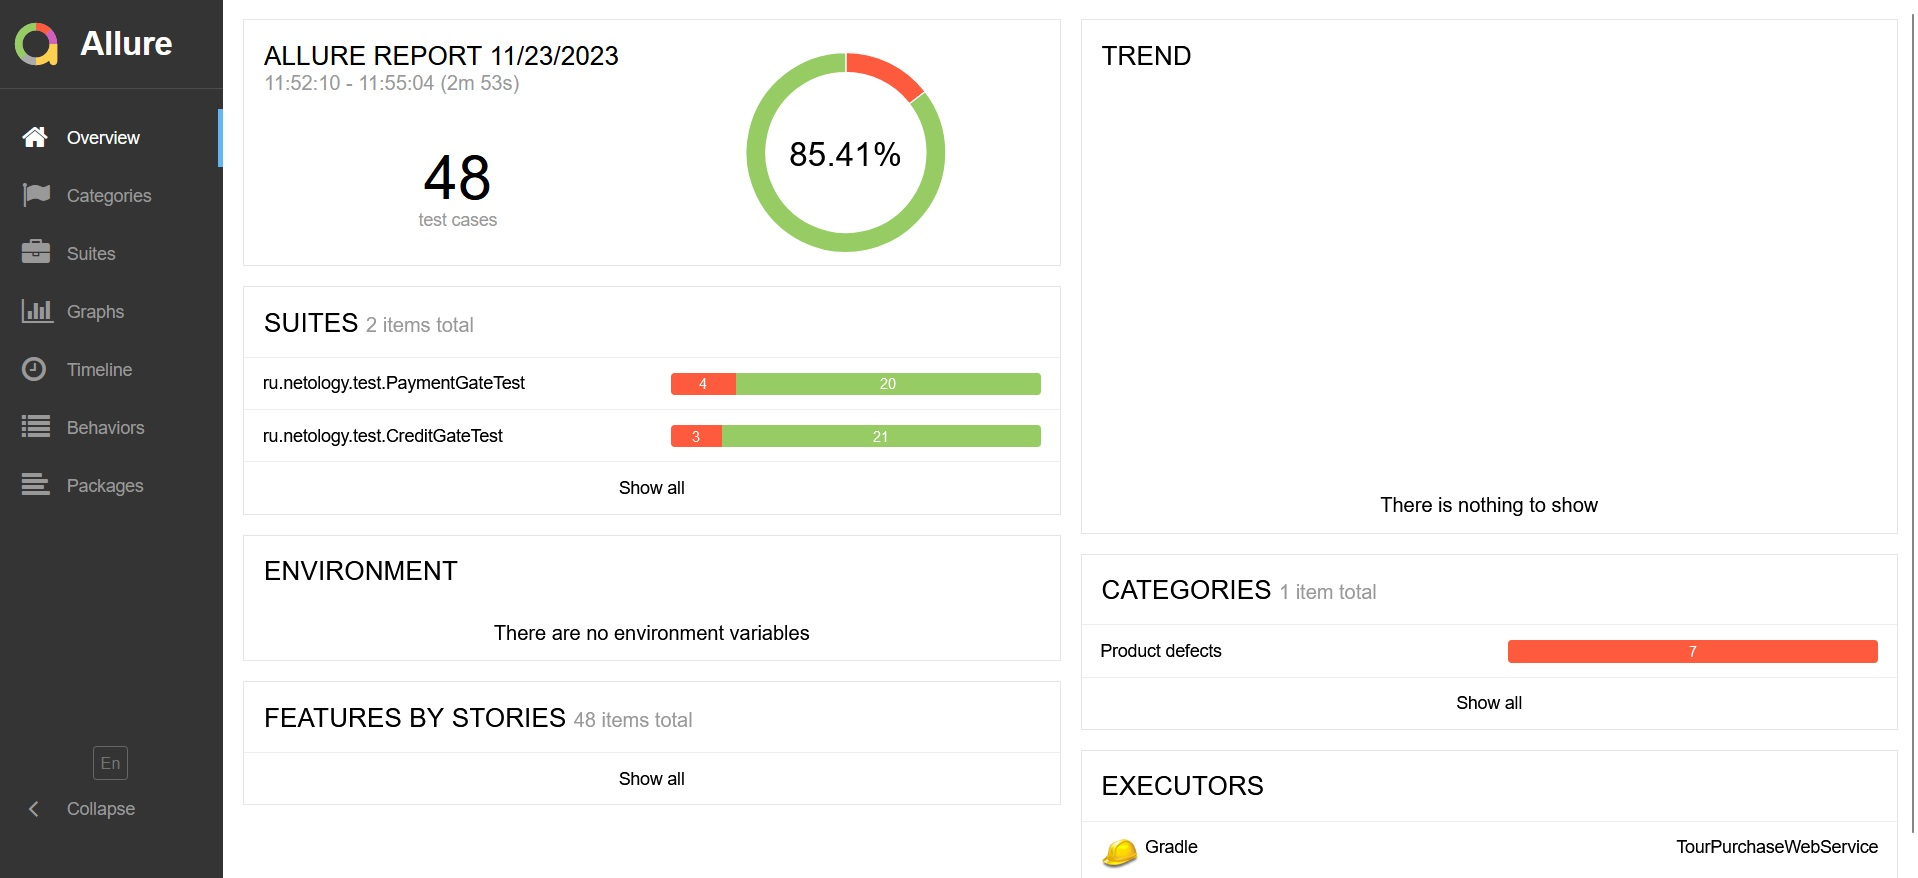
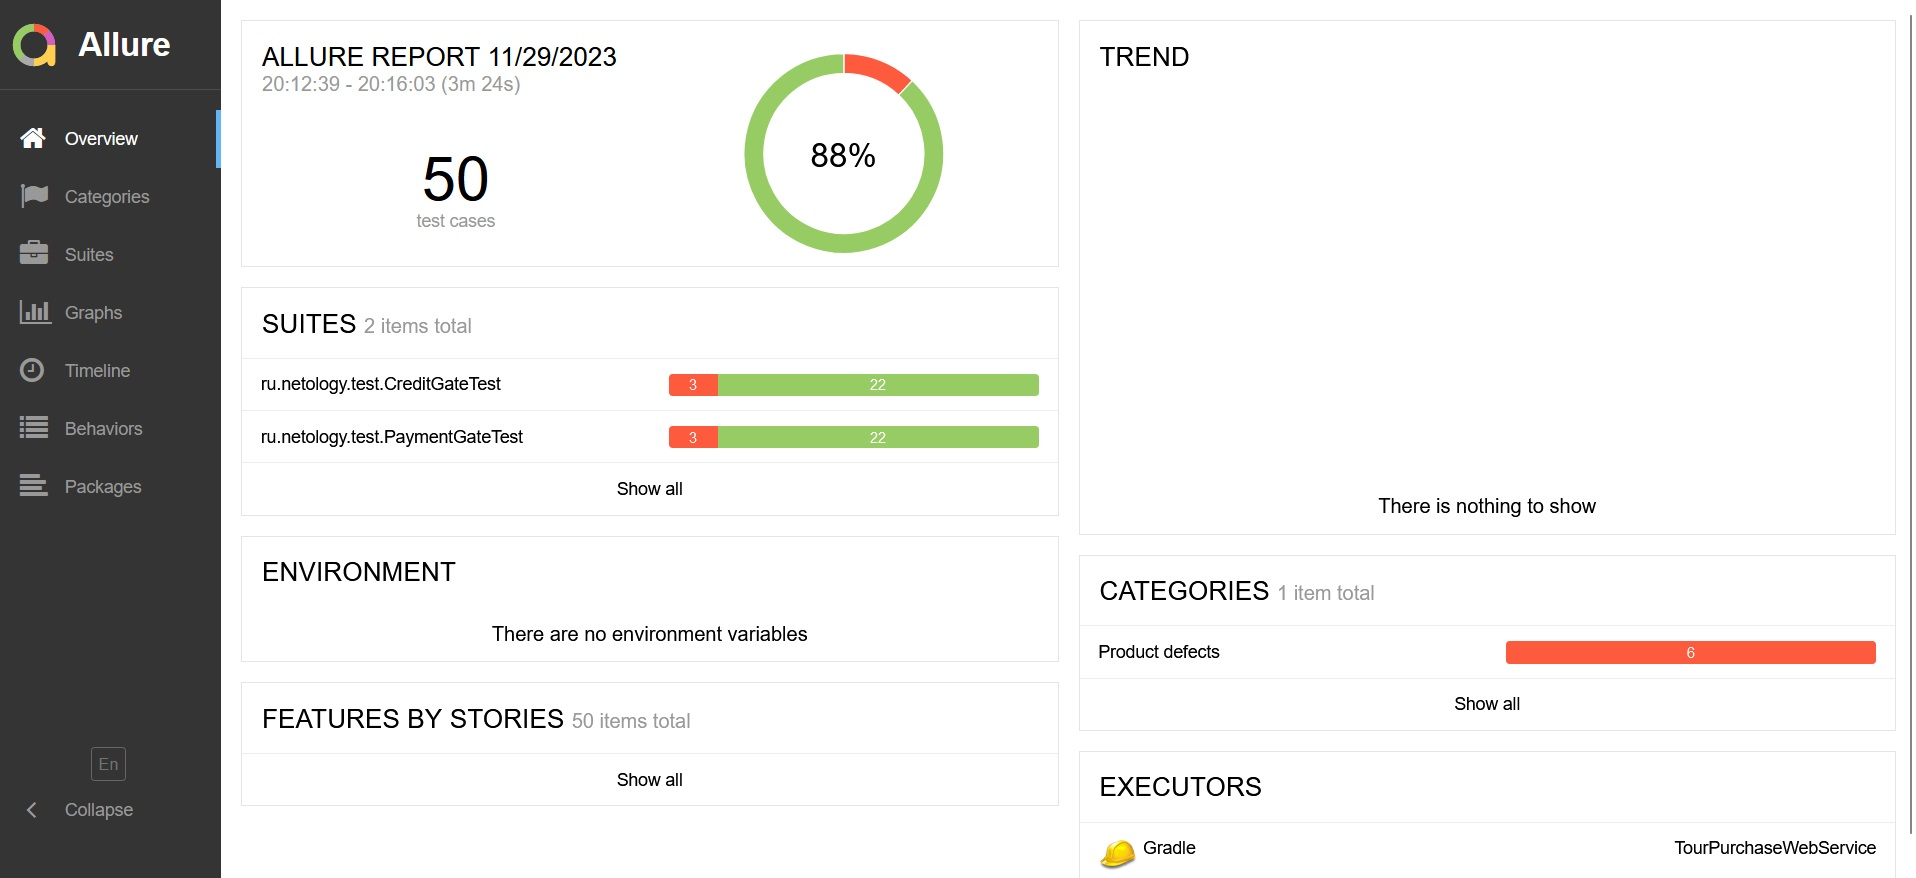
changed the code

diff --git a/src/test/java/ru/netology/test/PaymentGateTest.java b/src/test/java/ru/netology/test/PaymentGateTest.java
@@ -1,12 +1,14 @@
 package ru.netology.test;
+
 import org.junit.jupiter.api.BeforeEach;
 import org.junit.jupiter.api.Test;
+
 import ru.netology.data.SQLHelper;
 import ru.netology.page.PaymentGate;
+
 import static com.codeborne.selenide.Selenide.*;
 import static org.junit.jupiter.api.Assertions.assertEquals;
 import static ru.netology.data.DataHelper.*;
-
 
 
 public class PaymentGateTest {
@@ -199,23 +201,24 @@ public class PaymentGateTest {
 
     @Test
     void checkingTheStatusApprovedPaymentGate() { // Проверка статуса "APPROVED" в PaymentGate
-        SQLHelper.cleanDatabase();
-        SQLHelper.getConn();
+        SQLHelper.cleanDatabase();                                       // очистка БД
         paymentGate.fillSubstitutingValuesIntoFields("4444 4444 4444 4441", generateRandomMonth(), getCurrentDatePlusOneYear(),
-                generateRandomNameHolderCard(), generatorRandomCode());
-        paymentGate.loginButton.click();
-        var actualStatus = SQLHelper.getPaymentStatus();
-         assertEquals ("APPROVED", actualStatus);
+                generateRandomNameHolderCard(), generatorRandomCode());  // заполнение данных
+        paymentGate.loginButton.click();                                 // нажимает кнопку "Продолжить"
+        paymentGate.WaitingForRequest();                                 // ожидание выполнения действия
+        var actualStatus = SQLHelper.getPaymentStatus();                 // получение статуса из базы
+        assertEquals("APPROVED", actualStatus);                          // сравнение результата
     }
+
     @Test
     void checkingTheStatusDeclinedPaymentGate() { // Проверка статуса "DECLINED" в PaymentGate
         SQLHelper.cleanDatabase();
-        SQLHelper.getConn();
         paymentGate.fillSubstitutingValuesIntoFields("4444 4444 4444 4442", generateRandomMonth(), getCurrentDatePlusOneYear(),
                 generateRandomNameHolderCard(), generatorRandomCode());
         paymentGate.loginButton.click();
+        paymentGate.WaitingForRequest();
         var actualStatus = SQLHelper.getPaymentStatus();
-        assertEquals ("DECLINED", actualStatus);
+        assertEquals("DECLINED", actualStatus);
     }
 
 }

diff --git a/src/test/java/ru/netology/test/CreditGateTest.java b/src/test/java/ru/netology/test/CreditGateTest.java
@@ -6,6 +6,7 @@ import org.junit.jupiter.api.Test;
 import ru.netology.data.SQLHelper;
 import ru.netology.page.CreditGate;
 
+
 import static com.codeborne.selenide.Selenide.*;
 import static org.junit.jupiter.api.Assertions.assertEquals;
 import static ru.netology.data.DataHelper.*;
@@ -201,10 +202,10 @@ public class CreditGateTest {
     @Test
     void checkingTheStatusApprovedCreditGate() { // Проверка статуса "APPROVED" в CreditGate
         SQLHelper.cleanDatabase();
-        SQLHelper.getConn();
         creditGate.fillSubstitutingValuesIntoFields("4444 4444 4444 4441", generateRandomMonth(), getCurrentDatePlusOneYear(),
                 generateRandomNameHolderCard(), generatorRandomCode());
         creditGate.loginButton.click();
+        creditGate.WaitingForRequest();
         var actualStatus = SQLHelper.getCreditStatus();
         assertEquals("APPROVED", actualStatus);
     }
@@ -213,11 +214,12 @@ public class CreditGateTest {
     @Test
     void checkingTheStatusDeclinedCreditGate() { // Проверка статуса "DECLINED" в CreditGate
         SQLHelper.cleanDatabase();
-        SQLHelper.getConn();
+
         creditGate.fillSubstitutingValuesIntoFields("4444 4444 4444 4442", generateRandomMonth(), getCurrentDatePlusOneYear(),
                 generateRandomNameHolderCard(), generatorRandomCode());
         creditGate.loginButton.click();
+        creditGate.WaitingForRequest();
         var actualStatus = SQLHelper.getCreditStatus();
-        assertEquals ("DECLINED", actualStatus);
+        assertEquals("DECLINED", actualStatus);
     }
 }

diff --git a/src/test/java/ru/netology/page/PaymentGate.java b/src/test/java/ru/netology/page/PaymentGate.java
@@ -3,6 +3,11 @@ package ru.netology.page;
 import com.codeborne.selenide.Condition;
 import com.codeborne.selenide.SelenideElement;
 
+import org.openqa.selenium.By;
+import org.openqa.selenium.WebDriver;
+import org.openqa.selenium.chrome.ChromeDriver;
+import org.openqa.selenium.support.ui.ExpectedConditions;
+import org.openqa.selenium.support.ui.WebDriverWait;
 import ru.netology.data.DataHelper;
 
 import java.time.Duration;
@@ -65,7 +70,11 @@ public class PaymentGate {
     }
 
 
-    public void textIncorrectFormatSees() {
+    public void textIncorrectFormatSees() { // метод видит текст "Неверный формат"
         $(byText("Неверный формат")).shouldBe(visible, Duration.ofSeconds(10));
+    }
+
+    public void WaitingForRequest() { // метод ожидания запроса
+        $(byText("Продолжить")).shouldBe(visible, Duration.ofSeconds(20));
     }
 }

diff --git a/src/test/java/ru/netology/data/SQLHelper.java b/src/test/java/ru/netology/data/SQLHelper.java
@@ -24,6 +24,7 @@ public class SQLHelper {
     public static Connection getConn() {
         return DriverManager.getConnection("jdbc:mysql://localhost:3306/app", "app", "pass");
     }
+
     @SneakyThrows
     public static void cleanDatabase() {
         var connection = getConn();
@@ -41,6 +42,7 @@ public class SQLHelper {
         var actualStatus = runner.query(conn, codeSQL, new ScalarHandler<String>());     // runner выполняет подключение, передает код, возвращает строчное значение
         return actualStatus;
     }
+
     @SneakyThrows
     public static String getCreditStatus() {  // метод делает запрос в базу и возвращает результат
         var conn = getConn();                                                            // подключается

diff --git a/src/test/java/ru/netology/page/CreditGate.java b/src/test/java/ru/netology/page/CreditGate.java
@@ -65,4 +65,8 @@ public class CreditGate {
     public void textIncorrectFormatSees() {
         $(byText("Неверный формат")).shouldBe(visible, Duration.ofSeconds(10));
     }
+
+    public void WaitingForRequest() { // метод ожидания запроса
+        $(byText("Продолжить")).shouldBe(visible, Duration.ofSeconds(20));
+    }
 }

diff --git a/docs/Summary.md b/docs/Summary.md
@@ -1,8 +1,8 @@
 ### **Отчёт о проведённой автоматизации**
 
-В проведении автотестов было запланировано и реализовано по 24 теста в разделе "Купить" и "Купить в кредит".
-В процессе настройки, создания и прогонов автотестов потребовалось больше времени, чем было запланировано, т.к. было не корректно заложено время на настройку тестовой среды и подбор белее подходящего кода для автотестов.
+В проведении автотестов было запланировано и реализовано по 25 тестов в разделе "Купить" и "Купить в кредит".
+В процессе настройки, создания и прогонов автотестов потребовалось больше времени, чем было запланировано, т.к. было не корректно заложено время на настройку тестовой среды и подбор белее подходящего кода для выполнения автотестов.
 
 Общий итог по времени: 
  - время сдачи запланировано на 15.11.2023г
- - фактическое время сдачи 23.11.2023г
+ - фактическое время сдачи 29.11.2023г

diff --git a/docs/Report.md b/docs/Report.md
@@ -5,7 +5,7 @@
 В полях при заполнении карты для оплаты разделов "Купить" и "Купить в кредит" было проведено ручное тестирование полей, согласно чек-листу приложенному в файле README.md.
 Данные поля отрабатывают корректно.
 
-В разделе "Купить"и "Купить в кредит" было проведено по 24 автотеста согласно чек-листу приложенному в файле README.md..
+В разделе "Купить"и "Купить в кредит" было проведено по 25 автотестов согласно чек-листу приложенному в файле README.md..
 
 
 Тесты "dataTest()" - Заполнение полей валидными значениями, "numberHolderTest()", "symbolsHolderCardTest()" - заполнение поля "Владелец" цифрами и спецсимволами не прошли, т.к. был выявлен баг, Issues оформлены в репозитории проекта. 
